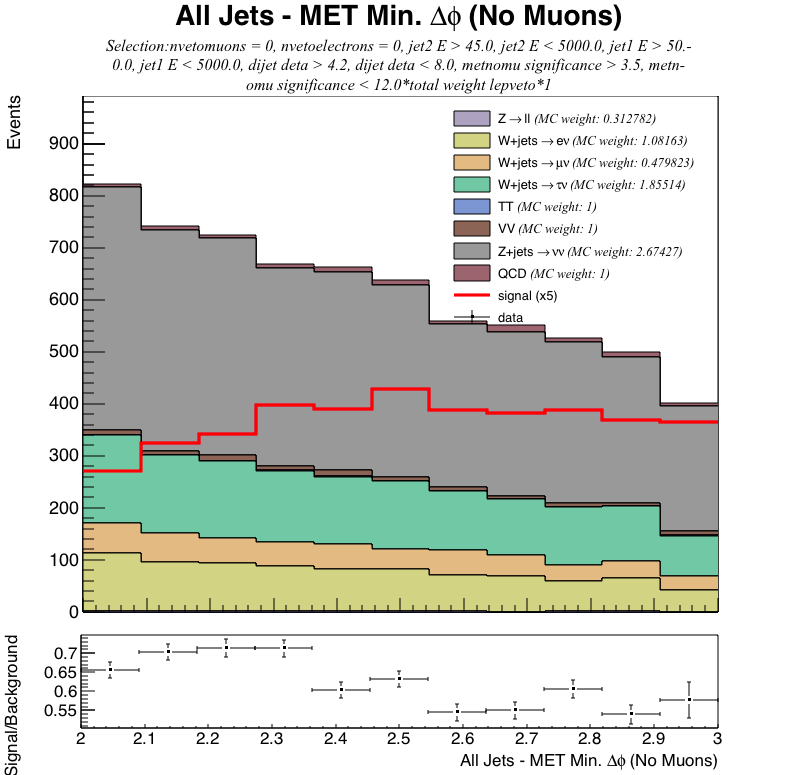
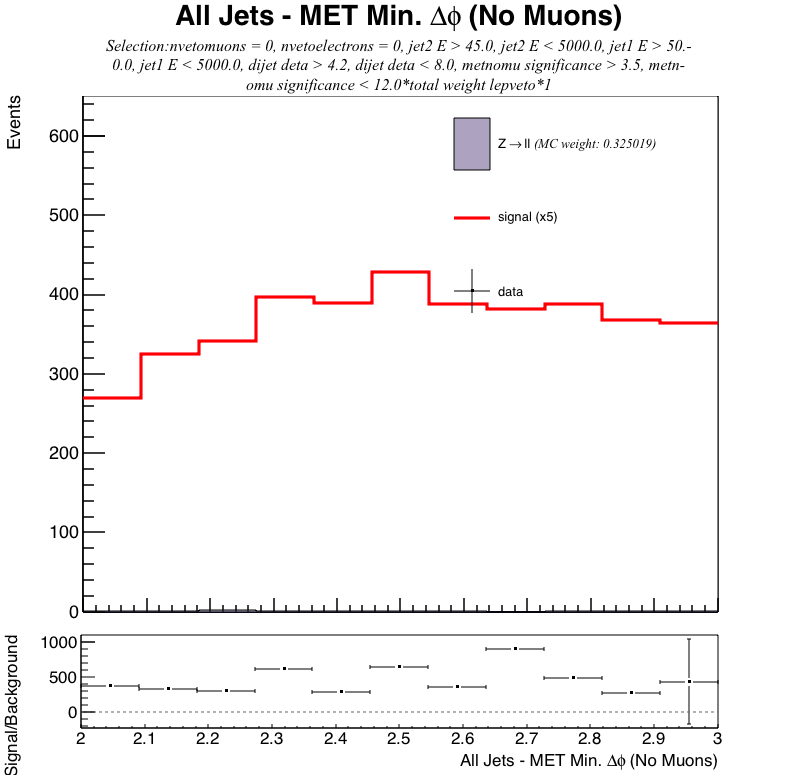
no errors

diff --git a/src/histo_plot.cpp b/src/histo_plot.cpp
@@ -24,7 +24,8 @@ void HistoPlot::draw_plot(Variable* var, std::vector<DataChain*> bg_chains,
  
   THStack stack      = draw_stacked_histo(legend, var, bg_chains, with_cut, variables, data);
   TH1F* signal_histo = draw_signal(signal_chain, var, with_cut, legend, variables);
-  TH1F* data_histo   = draw_data(data, var, with_cut, legend, variables);
+  TH1F* data_histo   = NULL;
+  if(plot_data){TH1F* data_histo   = draw_data(data, var, with_cut, legend, variables);}
 
   stack.Draw();
   signal_histo->Draw("SAME");
@@ -126,7 +127,7 @@ std::vector<double> HistoPlot::mc_weights(DataChain* data, std::vector<DataChain
   double mc_weight[8];
   double zll_weight;
 
-  for(int i=0; i<8;i++)
+  for(int i=0; i<bg_chains.size();i++)
   {
     mc_weight[i] = 1;
 
@@ -371,6 +372,7 @@ TH1F* HistoPlot::build_1d_histo(DataChain* data_chain, Variable* variable, bool 
                                 const char* option, std::vector<Variable*>* variables, std::string selection, double mc_weight)
 {
   std::string var_arg = variable->build_var_string(data_chain->label, with_cut);
+  std::cout << "var arg" << var_arg << std::endl;
   std::string selection_str;
 
   if (selection == "")
@@ -396,7 +398,7 @@ TH1F* HistoPlot::draw_data(DataChain* data_chain, Variable* variable, bool with_
   data_chain->chain->SetMarkerStyle(7);
   data_chain->chain->SetMarkerColor(1);
   data_chain->chain->SetLineColor(1);
-  TH1F* data_histo = build_1d_histo(data_chain, variable, with_cut, false, "E1", variables);
+  TH1F* data_histo = set_error_bars(build_1d_histo(data_chain, variable, with_cut, false, "E1", variables));
   legend->AddEntry(data_histo, data_chain->legend, "lep");
 
   return data_histo;

diff --git a/src/mva_analysis.cpp b/src/mva_analysis.cpp
@@ -178,7 +178,7 @@ void MVAAnalysis::plot_bdt_results(std::vector<DataChain*> bg_chains, DataChain*
 
 	 std::vector<DataChain*> output_bg_chains = get_output_bg_chains(bg_chains, vars, var_cut_str_tmva);
 	 DataChain* output_signal_chain           = get_output_signal_chain(signal_chain, vars, var_cut_str_tmva);
-  Variable* mva_output = new Variable("output","MVA Output","-1.0","1.0","-0.8","0.8","125","1", "", false);
+  Variable* mva_output = new Variable("output","MVA Output","-1.0","1.0","-0.4","0.4","125","1", "", false);
   HistoPlot::draw_plot(mva_output, output_bg_chains, output_signal_chain, data_chain, true, &vars, false);
 }
 
@@ -186,7 +186,7 @@ std::vector<DataChain*> MVAAnalysis::get_output_bg_chains(std::vector<DataChain*
 {
   std::vector<DataChain*> output_bg_chains;
 
-	 for (int i = 0; i < 1; i++)
+	 for (int i = 0; i < bg_chains.size(); i++)
   {
 	 		DataChain* combined_output = BDTAnalysis::get_BDT_results(bg_chains[i], &vars, var_cut_str_tmva);
 	 		output_bg_chains.push_back(combined_output);

diff --git a/src/super_vars.cpp b/src/super_vars.cpp
@@ -32,7 +32,7 @@ std::vector<Variable*> SuperVars::get_discriminating_vars()
 
 std::vector<Variable*> SuperVars::get_signal_cut_vars()
 {
-  Variable* var_arr[] =  {metnomu_significance, alljetsmetnomu_mindphi, dijet_deta, jet1_E, jet2_E};
+  Variable* var_arr[] =  {alljetsmetnomu_mindphi, metnomu_significance, dijet_deta, jet1_E, jet2_E};
 
   std::vector<Variable*> vars (var_arr, var_arr + sizeof(var_arr) / sizeof(var_arr[0]));
 

diff --git a/src/bdt_analysis.cpp b/src/bdt_analysis.cpp
@@ -167,7 +167,7 @@ DataChain* BDTAnalysis::get_BDT_results(DataChain* bg_chain, std::vector<Variabl
 
 	 std::string label(bg_chain->label);
 	 label += "_w_mva_output";
-	 DataChain* output_data = new DataChain(top, bg_chain->label, bg_chain->legend, "", label, bg_clone);
+	 DataChain* output_data = new DataChain(z_ll, bg_chain->label, bg_chain->legend, bg_chain->lep_sel, label, bg_clone);
 
 	 return output_data;
 }
